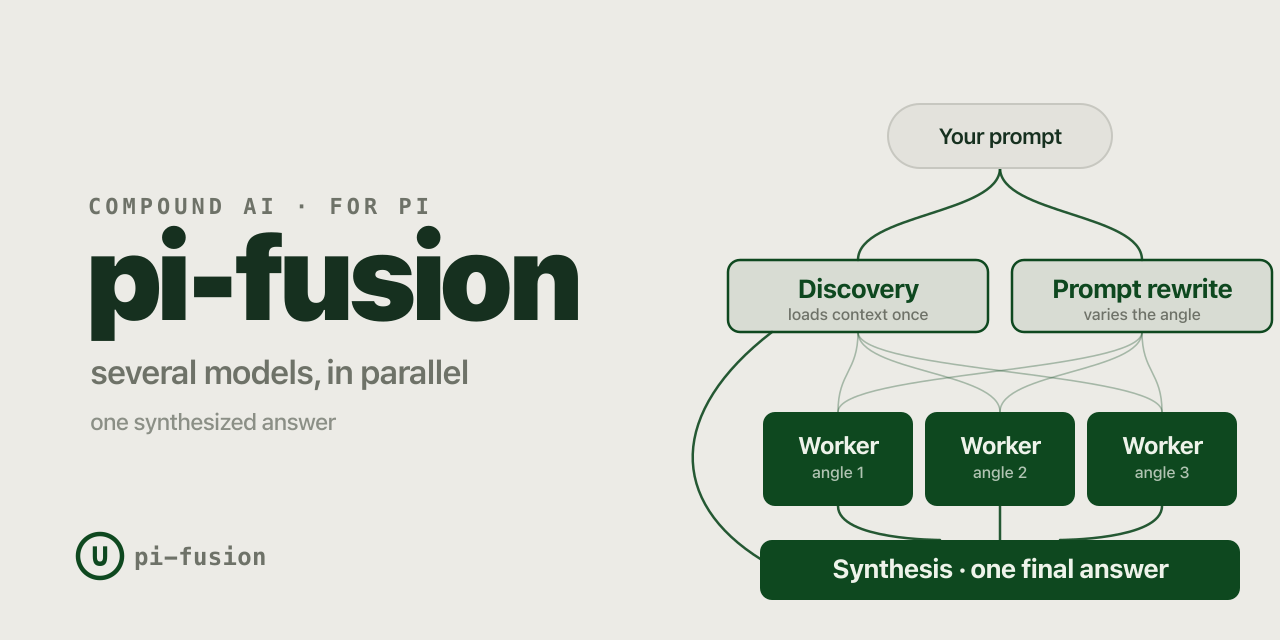
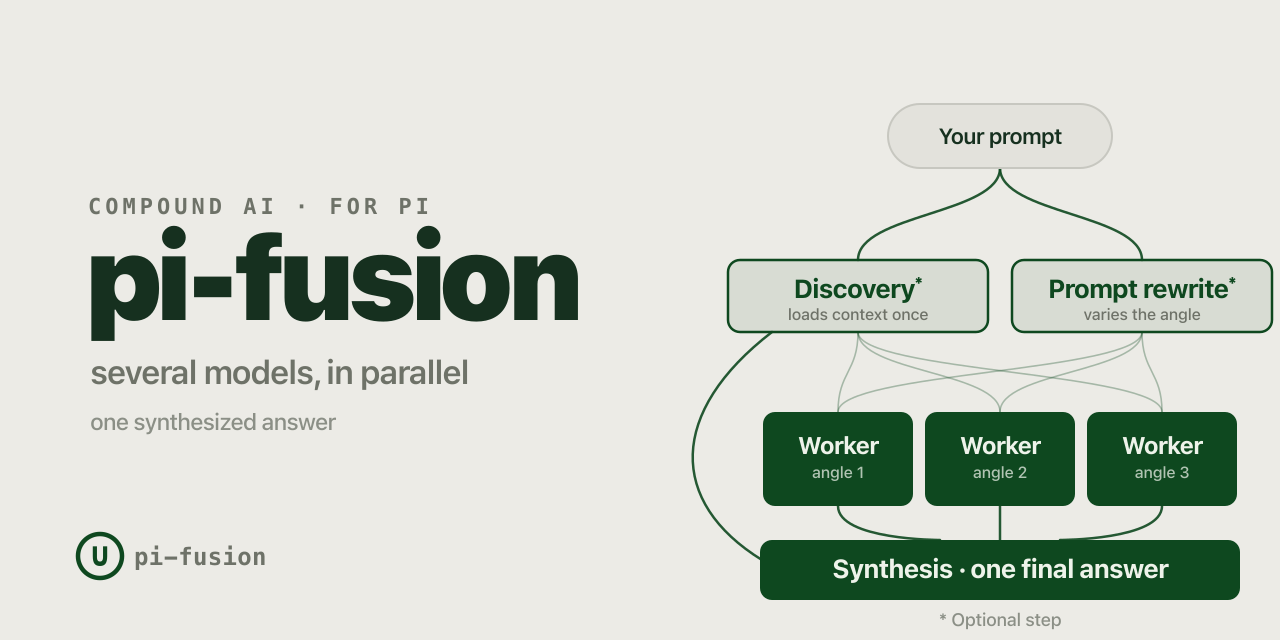
Fix up docs layout and QOL

Changed region(s): [[0.8125, 0.4375, 0.9688, 0.4688], [0.75, 0.9375, 0.8125, 1.0], [0.5938, 0.4375, 0.7188, 0.4688]]

diff --git a/docs/assets/styles.css b/docs/assets/styles.css
@@ -57,13 +57,45 @@ main {
   margin-bottom: 48px;
 }
 
+.header-top {
+  display: flex;
+  align-items: center;
+  justify-content: space-between;
+  gap: 12px;
+  margin-bottom: 22px;
+}
+
+.social {
+  display: flex;
+  flex-wrap: wrap;
+  justify-content: flex-end;
+  gap: 8px;
+}
+
+.social-link {
+  display: inline-flex;
+  align-items: center;
+  min-height: 28px;
+  padding: 0 12px;
+  border: 2px solid var(--accent);
+  border-radius: 999px;
+  font-size: 12px;
+  font-weight: 600;
+  color: var(--accent);
+  background: transparent;
+}
+
+.social-link:hover {
+  text-decoration: none;
+  background: var(--accent-soft);
+}
+
 .brand-mark {
   display: inline-flex;
   align-items: center;
   justify-content: center;
   width: 54px;
   height: 54px;
-  margin-bottom: 22px;
   border: 3px solid var(--accent);
   border-radius: 999px;
   color: var(--accent);
@@ -180,6 +212,7 @@ h3 {
 .diagram {
   margin: 40px 0 0;
   padding: 28px 24px;
+  margin-bottom: 24px;
 }
 
 .diagram img {

diff --git a/docs/_layouts/default.html b/docs/_layouts/default.html
@@ -31,9 +31,16 @@
   <body>
     <main>
       <header class="site-header">
-        <a class="brand-mark" href="{{ '/' | relative_url }}" aria-label="pi-fusion home">
-          <span class="brand-orbit" aria-hidden="true">∪</span>
-        </a>
+        <div class="header-top">
+          <a class="brand-mark" href="{{ '/' | relative_url }}" aria-label="pi-fusion home">
+            <span class="brand-orbit" aria-hidden="true">∪</span>
+          </a>
+          <nav class="social" aria-label="Project links">
+            <a class="social-link" href="https://github.com/leblancfg/pi-fusion">Github</a>
+            <a class="social-link" href="https://www.npmjs.com/package/@leblancfg/pi-fusion">npm</a>
+            <a class="social-link" href="https://pi.dev/packages/@leblancfg/pi-fusion">pi.dev</a>
+          </nav>
+        </div>
         <p class="eyebrow">pi extension</p>
         <h1>{{ page.heading | default: page.title | default: site.title }}</h1>
         {% if page.lead %}
@@ -42,8 +49,6 @@
         <nav class="actions" aria-label="Site navigation">
           <a class="button{% if page.url == '/' %} primary{% endif %}" href="{{ '/' | relative_url }}">Overview</a>
           <a class="button{% if page.url == '/presets/' %} primary{% endif %}" href="{{ '/presets/' | relative_url }}">Presets & Prompts</a>
-          <a class="button" href="https://github.com/leblancfg/pi-fusion">Source</a>
-          <a class="button" href="https://pi.dev/packages/@leblancfg/pi-fusion">pi package</a>
         </nav>
       </header>
 

diff --git a/docs/index.md b/docs/index.md
@@ -2,54 +2,18 @@
 layout: default
 title: pi-fusion
 heading: pi-fusion
-lead: A compound-AI planning pass for pi. Several model calls explore your task in parallel, then merge into one syntesis turn.
-description: pi-fusion is a compound AI planning fanout for pi: parallel model calls, optional discovery, prompt rewrites, configurable planner tools, and one final syntesis response.
+lead: |
+  A model fusion planning pass for pi. Several model calls explore your task in parallel, then merge
+  into one synthesis turn.
+description: |
+  "pi-fusion is a compound AI planning fanout for pi: parallel model calls, optional discovery,
+  prompt rewrites, configurable planner tools, and one final synthesis turn."
 ---
 
-<div class="install" aria-label="Installation command">
-  <pre><code>pi install npm:@leblancfg/pi-fusion</code></pre>
-</div>
+{% include pages/index.md %}
 
-<figure class="diagram">
-  <img src="{{ '/assets/fusion-map.svg' | relative_url }}" alt="Prompt flows into optional discovery and rewrite, then planner workers, then into a final synthesis turn." />
-  <figcaption class="caption">Local pi subprocesses, not OpenRouter's hosted Fusion route. Discovery and rewrite are optional.</figcaption>
-</figure>
+<p class="section-label">For agents</p>
 
-<p class="section-label">How it works</p>
-
-<section class="grid" aria-label="How it works">
-  <article class="card">
-    <h2>What it does</h2>
-    <p>Workers plan in parallel with configurable tool access, then their notes are injected into the synthesis prompt.</p>
-  </article>
-  <article class="card">
-    <h2>Why bother</h2>
-    <p>An analog to model reasoning, test-time compute fanout across a panel of models can perform better than single frontier models, or perform as well as frontier models on some benchmarks at a fraction of the cost, or latency.</p>
-  </article>
-  <article class="card">
-    <h2>When to use it</h2>
-    <p>Fuzzy bugs, unfamiliar code, refactors, reviews. Turn it off for tiny edits where latency costs more than the plan.</p>
-  </article>
-</section>
-
-<p class="section-label">Get started</p>
-
-<section class="grid" aria-label="Get started">
-  <article class="card">
-    <h2>Open settings</h2>
-    <pre><code>/fusion</code></pre>
-    <p>Set worker count, choose planner tool access, pick models, and save/load your own presets from the TUI pane.</p>
-  </article>
-  <article class="card">
-    <h2>Run locally</h2>
-    <pre><code>pi -e ./extensions/pi-fusion/index.ts</code></pre>
-    <p>Test a checkout before installing it as a package.</p>
-  </article>
-  <article class="card">
-    <h2>Read the preset docs</h2>
-    <pre><code>/fusion preset list</code></pre>
-    <p>Presets are rendered as a local docs page, not a link out to GitHub. <a href="{{ '/presets/' | relative_url }}">Read them here.</a></p>
-  </article>
-</section>
-
-
+<p class="agent-docs">
+  Reading this with an agent? The <a href="{{ '/docs.md' | relative_url }}">full docs</a> are available as raw markdown.
+</p>

diff --git a/docs/_includes/pages/index.md b/docs/_includes/pages/index.md
@@ -1,23 +1,22 @@
-
+<p class="section-label">Installation</p>
 <div class="install" aria-label="Installation command">
   <pre><code>pi install npm:@leblancfg/pi-fusion</code></pre>
 </div>
 
 <figure class="diagram">
-  <img src="{{ '/assets/fusion-map.svg' | relative_url }}" alt="Prompt flows into optional discovery and rewrite, then planner workers, then one pi actor turn" />
+  <img src="{{ '/assets/fusion-map.svg' | relative_url }}" alt="Prompt flows into optional discovery and rewrite, then planner workers, then into a final synthesis turn." />
   <figcaption class="caption">Local pi subprocesses, not OpenRouter's hosted Fusion route. Discovery and rewrite are optional.</figcaption>
 </figure>
 
-<p class="section-label">How it works</p>
 
 <section class="grid" aria-label="How it works">
   <article class="card">
     <h2>What it does</h2>
-    <p>Workers plan in parallel with configurable tool access, then their notes are injected into the synthesis turn's system prompt for that turn only.</p>
+    <p>Workers plan in parallel with configurable tool access, then their notes are injected into the synthesis prompt. All this content is saved to a single <a href="https://pi.dev/docs/latest/session-format#tree-structure">pi session file</a>.</p>
   </article>
   <article class="card">
     <h2>Why bother</h2>
-    <p>A cheap test-time compute fanout can catch missed files, alternate fixes, or risks before the synthesis turn starts editing.</p>
+    <p>An analog to model reasoning, test-time compute fanout across a panel of models can perform better than single frontier models, or perform as well as frontier models on some benchmarks at a fraction of the cost, or latency.</p>
   </article>
   <article class="card">
     <h2>When to use it</h2>
@@ -29,18 +28,18 @@
 
 <section class="grid" aria-label="Get started">
   <article class="card">
+    <h2>One-line install</h2>
+    <pre><code>pi install npm:@leblancfg/pi-fusion</code></pre>
+    <p>All you need to get started.</p>
+  </article>
+  <article class="card">
     <h2>Open settings</h2>
     <pre><code>/fusion</code></pre>
     <p>Set worker count, choose planner tool access, pick models, and save/load your own presets from the TUI pane.</p>
   </article>
   <article class="card">
-    <h2>Run locally</h2>
-    <pre><code>pi -e ./extensions/pi-fusion/index.ts</code></pre>
-    <p>Test a checkout before installing it as a package.</p>
-  </article>
-  <article class="card">
-    <h2>Read the preset docs</h2>
+    <h2>Save and load presets</h2>
     <pre><code>/fusion preset list</code></pre>
-    <p>Presets are rendered as a local docs page, not a link out to GitHub. <a href="{{ '/presets/' | relative_url }}">Read them here.</a></p>
+    <p>Presets are saved in dotfiles. <a href="{{ '/presets/' | relative_url }}">Read more here.</a></p>
   </article>
 </section>